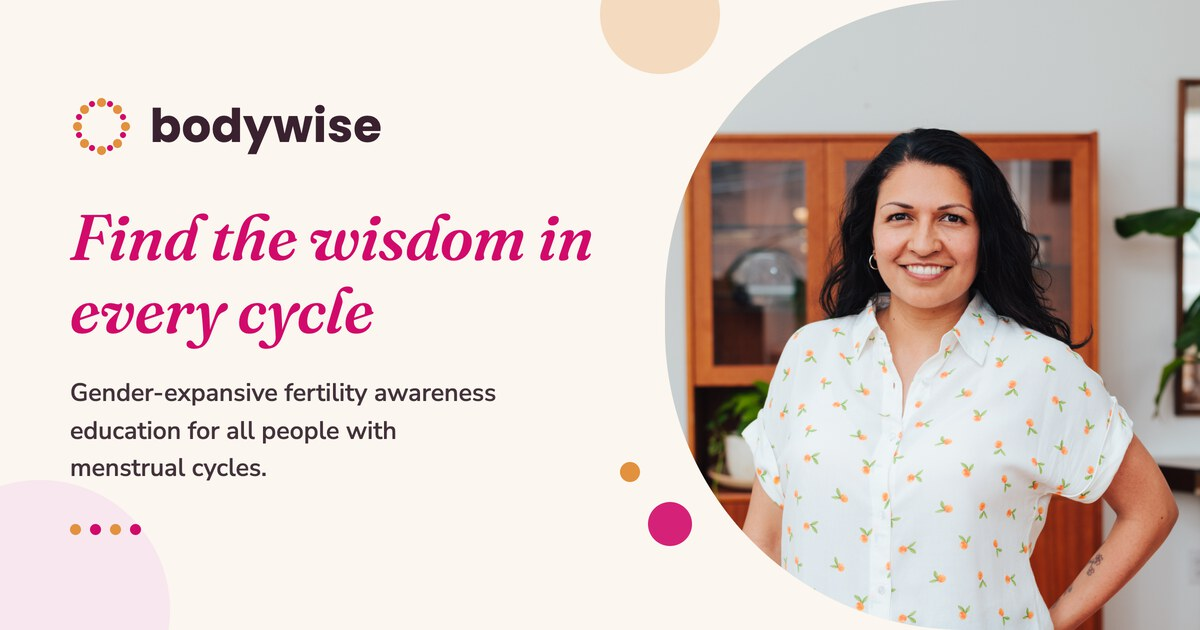
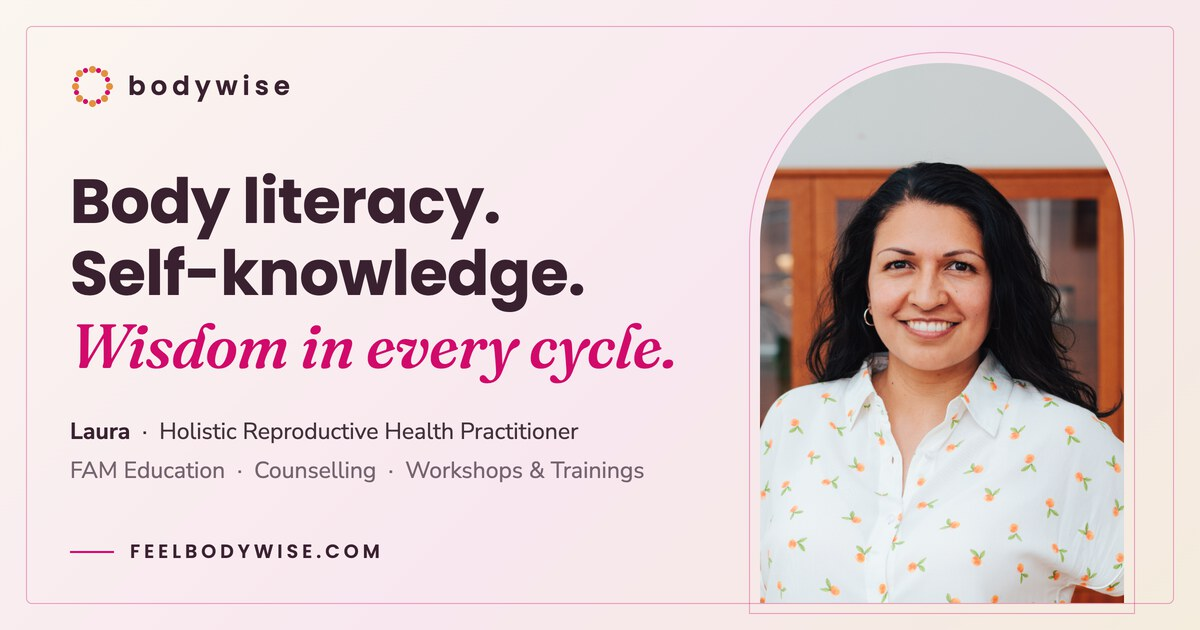
v4: final OG image (Aileen-style card, Laura enlarged in arch)
Cream-blush gradient card with berry inset frame, two-tone headline,
credential lines, domain footer, and arched portrait zoomed 1.35x so
Laura fills the frame. Design source kept as v4/og-source.html.

diff --git a/v4/og-source.html b/v4/og-source.html
@@ -1,0 +1,72 @@
+<!DOCTYPE html>
+<html lang="en">
+<head>
+<meta charset="utf-8">
+<link rel="preconnect" href="https://fonts.googleapis.com">
+<link rel="preconnect" href="https://fonts.gstatic.com" crossorigin>
+<link href="https://fonts.googleapis.com/css2?family=Fraunces:ital,opsz,wght@1,9..144,400..600&family=Nunito+Sans:wght@400;600;700&family=Poppins:wght@500;600;700&display=swap" rel="stylesheet">
+<style>
+  * { margin:0; padding:0; box-sizing:border-box; }
+  body { width:1200px; height:630px; overflow:hidden; }
+  .og {
+    position:relative; width:1200px; height:630px;
+    background: linear-gradient(135deg, #fbf6ef 0%, #f8e7ef 55%, #f4ecdd 100%);
+  }
+  .frame {
+    position:absolute; inset:26px; border:1.5px solid rgba(209,10,107,.35);
+    border-radius:6px; z-index:1;
+  }
+  .content { position:absolute; inset:0; z-index:2; padding:64px 70px; }
+  .brand { display:flex; align-items:center; gap:14px; }
+  .ring { position:relative; width:44px; height:44px; }
+  .ring span { position:absolute; border-radius:999px; }
+  .brandname { font-family:'Poppins',sans-serif; font-weight:600; font-size:26px; letter-spacing:5px; color:#3a2130; text-transform:lowercase; }
+  .headline { margin-top:58px; font-size:62px; line-height:1.16; }
+  .headline .roman { font-family:'Poppins',sans-serif; font-weight:700; color:#3a2130; letter-spacing:-.5px; }
+  .headline .ital { font-family:'Fraunces',Georgia,serif; font-style:italic; font-weight:550; color:#d10a6b; }
+  .cred { margin-top:34px; font-family:'Nunito Sans',sans-serif; font-size:23px; color:#43323b; }
+  .cred b { font-weight:700; color:#3a2130; }
+  .cred .row2 { margin-top:8px; color:#766470; }
+  .foot { position:absolute; left:70px; bottom:64px; display:flex; align-items:center; gap:16px; }
+  .foot .rule { width:44px; height:2px; background:#d10a6b; }
+  .foot .domain { font-family:'Poppins',sans-serif; font-weight:600; font-size:19px; letter-spacing:4px; color:#3a2130; }
+  .arch {
+    position:absolute; right:76px; bottom:27.5px; width:364px; height:540px;
+    border-radius:185px 185px 0 0; overflow:hidden; z-index:2;
+    outline:1.5px solid rgba(209,10,107,.35); outline-offset:10px;
+  }
+  .arch img {
+    width:100%; height:100%; object-fit:cover; object-position:52% 14%;
+    transform:scale(1.35); transform-origin:52% 26%;
+  }
+</style>
+</head>
+<body>
+  <div class="og">
+    <div class="frame"></div>
+    <div class="content">
+      <div class="brand"><div class="ring" id="ring"></div><div class="brandname">bodywise</div></div>
+      <div class="headline">
+        <div class="roman">Body literacy.</div>
+        <div class="roman">Self-knowledge.</div>
+        <div class="ital">Wisdom in every cycle.</div>
+      </div>
+      <div class="cred">
+        <div><b>Laura</b> &nbsp;&middot;&nbsp; Holistic Reproductive Health Practitioner</div>
+        <div class="row2">FAM Education &nbsp;&middot;&nbsp; Counselling &nbsp;&middot;&nbsp; Workshops &amp; Trainings</div>
+      </div>
+      <div class="foot"><div class="rule"></div><div class="domain">FEELBODYWISE.COM</div></div>
+    </div>
+    <div class="arch"><img src="laura-hero.jpg" alt=""></div>
+  </div>
+  <script>
+    const ring = document.getElementById('ring');
+    const N=16, R=17, C=22;
+    for (let i=0;i<N;i++){ const a=(i/N)*Math.PI*2-Math.PI/2, big=i%2===0, s=big?7:4.5;
+      const d=document.createElement('span');
+      d.style.width=d.style.height=s+'px';
+      d.style.left=(C+R*Math.cos(a)-s/2)+'px'; d.style.top=(C+R*Math.sin(a)-s/2)+'px';
+      d.style.background=big?'#e2913f':'#d10a6b'; ring.appendChild(d); }
+  </script>
+</body>
+</html>